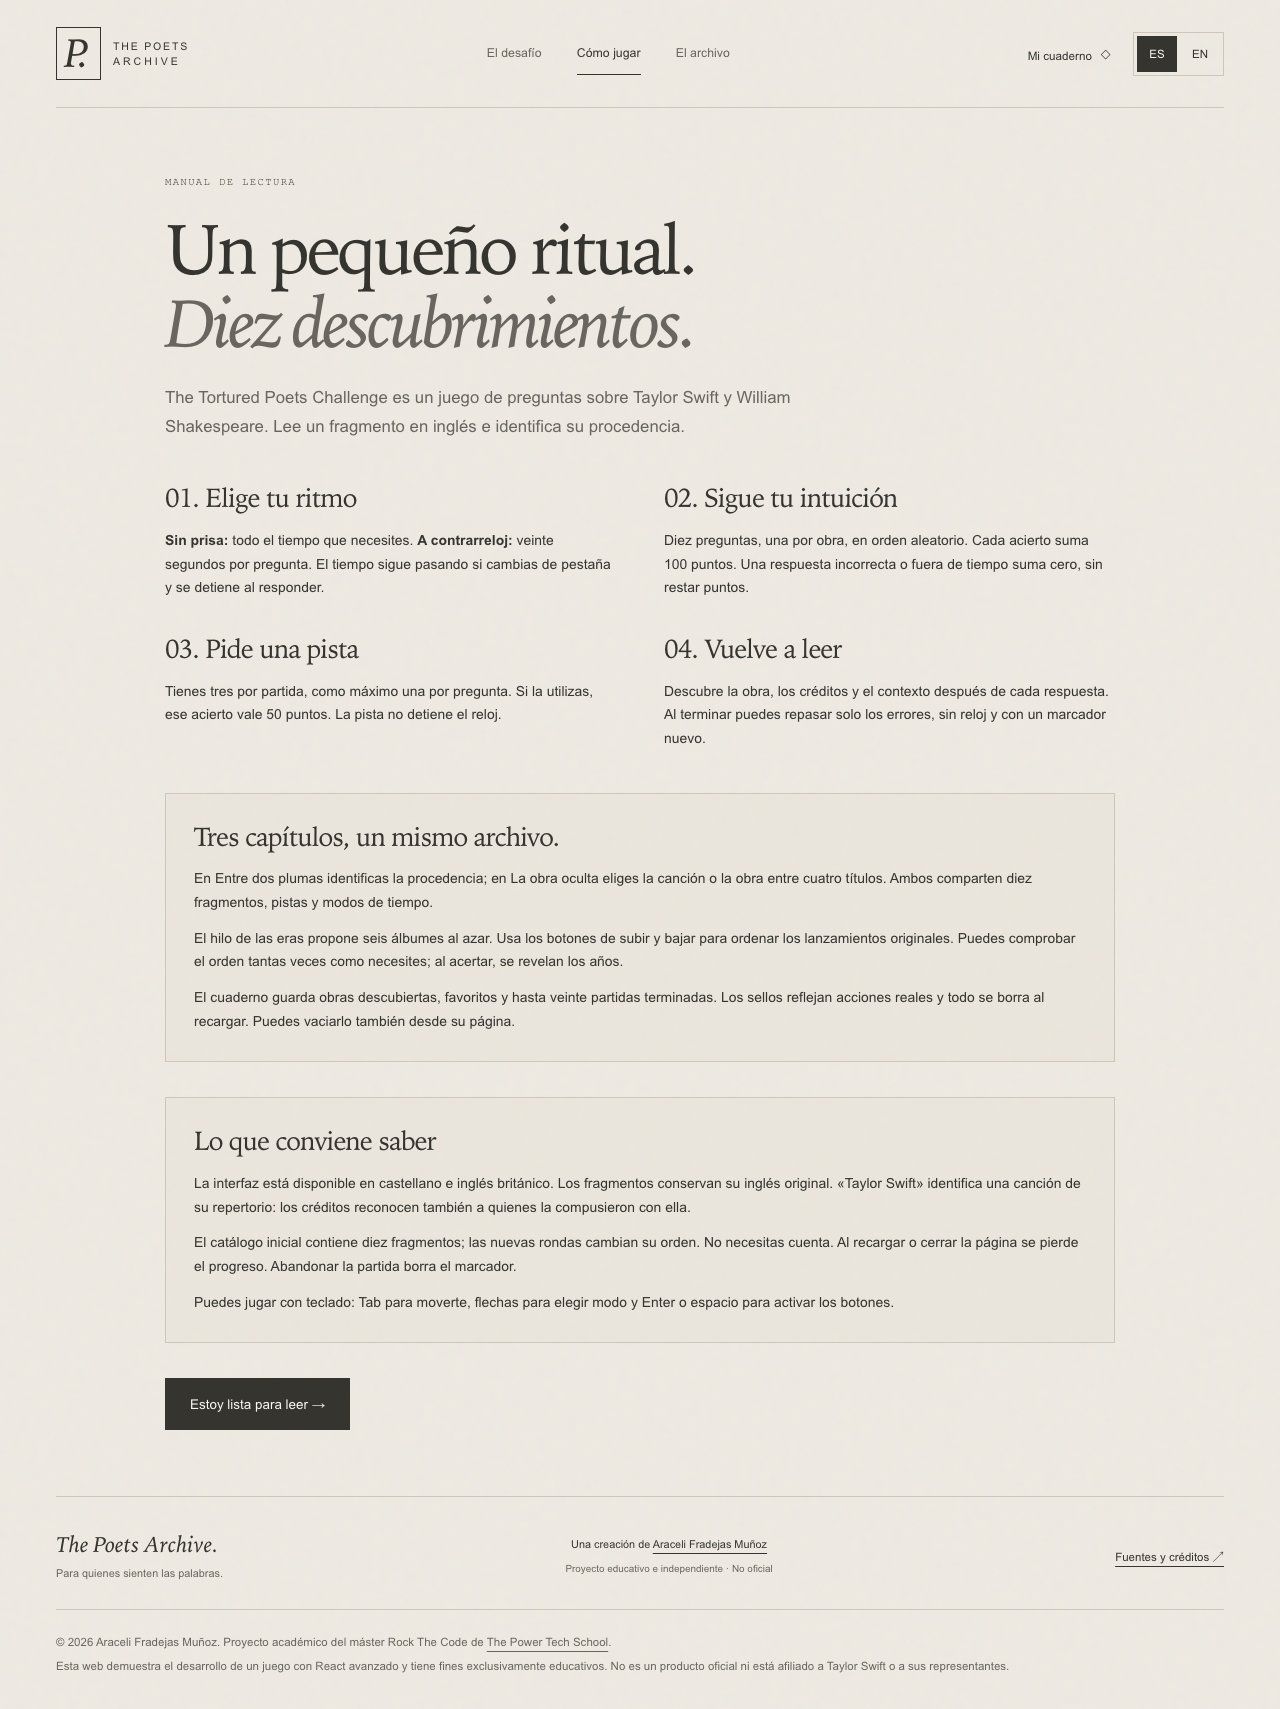
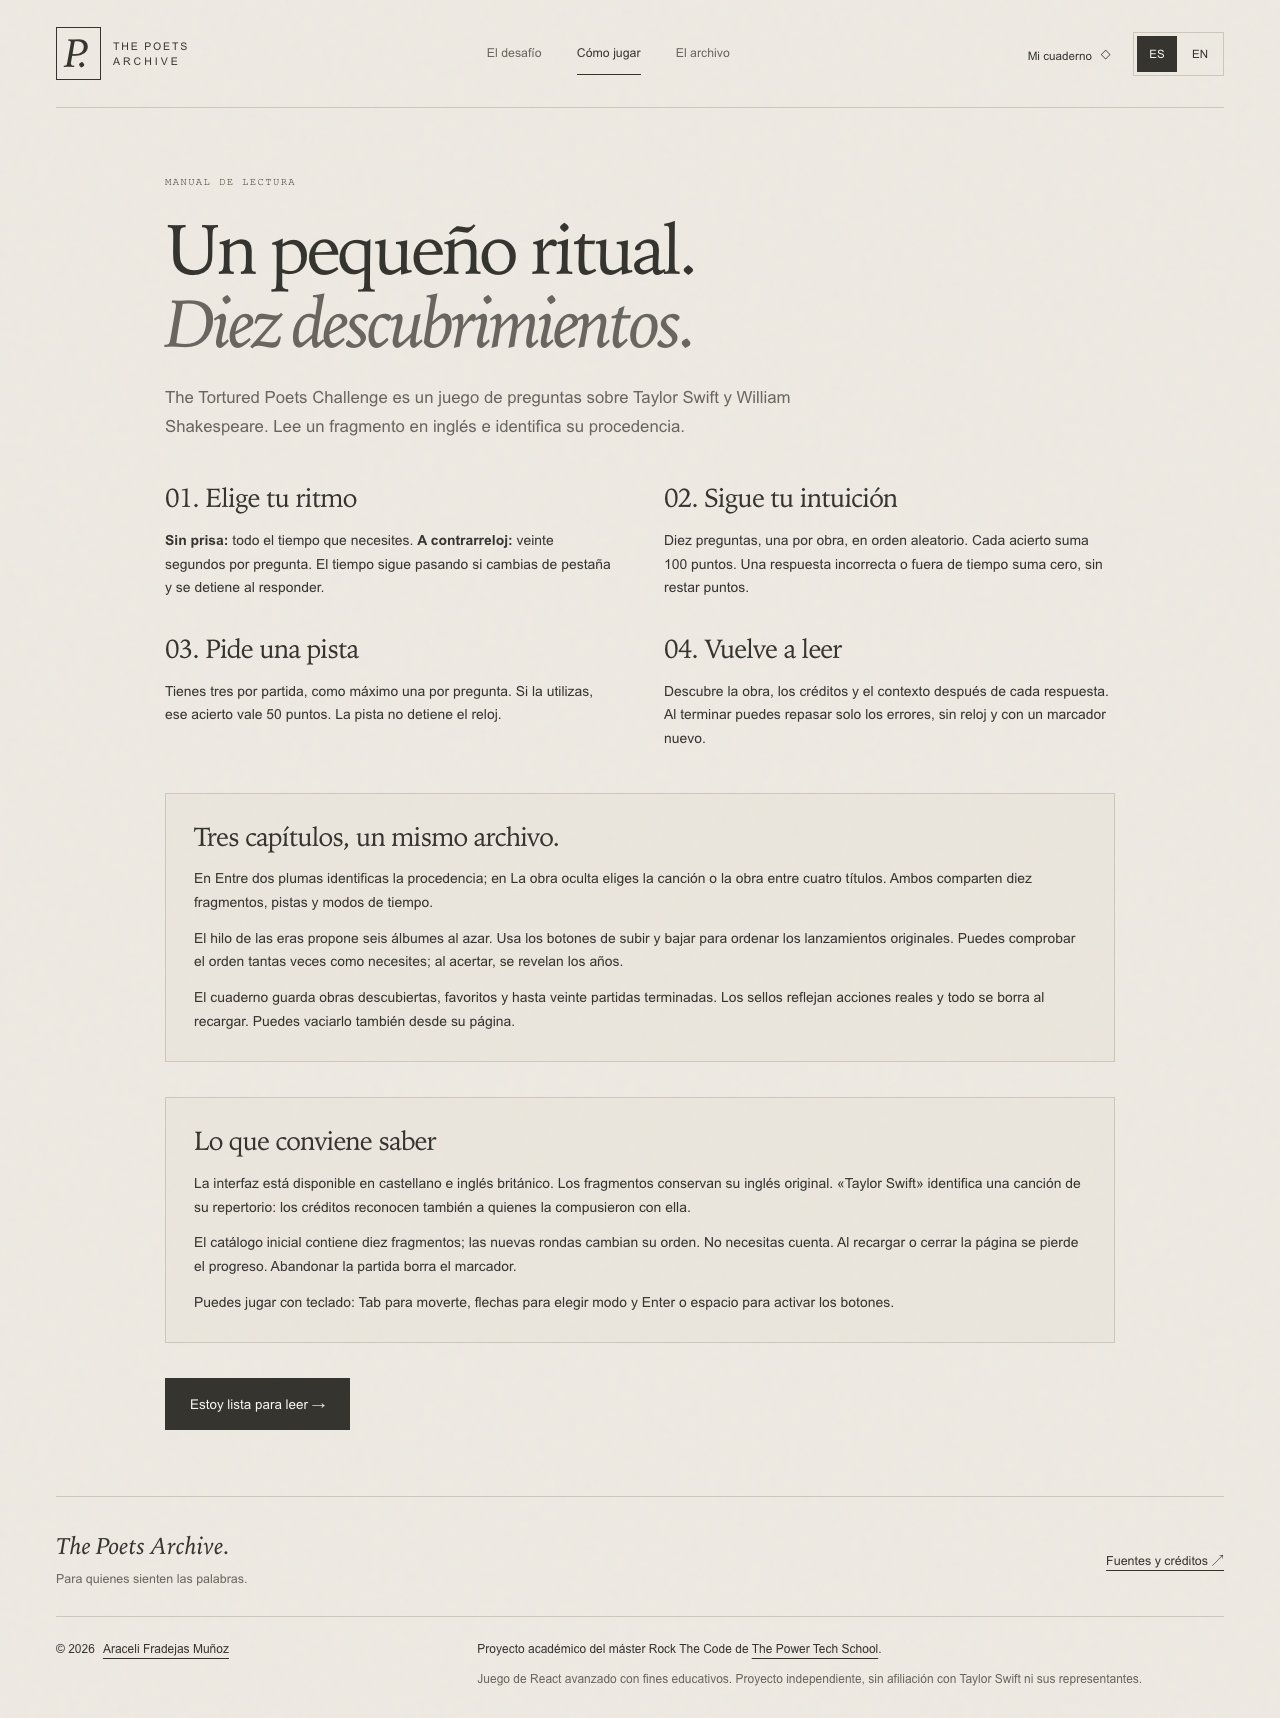
Simplifica los textos y mejora la distribución del pie de página

diff --git a/src/components/Footer.jsx b/src/components/Footer.jsx
@@ -1,12 +1,37 @@
 import { LocalLink as Link } from './LocalLink';
 import { useLanguage } from '../context/LanguageContext';
+import '../styles/footer.css';
+
 export default function Footer() {
   const { t } = useLanguage();
-  return <footer className="site-footer">
-    <div className="footer-main"><div><Link className="footer-title" to="/">The Poets Archive.</Link><p>{t('Para quienes sienten las palabras.')}</p></div>
-      <div className="footer-credit"><span>{t('Una creación de')} <a href="https://github.com/AraceliFradejas" target="_blank" rel="noreferrer">Araceli Fradejas Muñoz</a></span><small>{t('Proyecto educativo e independiente · No oficial')}</small></div>
-      <Link to="/archivo">{t('Fuentes y créditos ↗')}</Link></div>
-    <div className="footer-academic"><p>© 2026 Araceli Fradejas Muñoz. {t('Proyecto académico del máster Rock The Code de')} <a href="https://thepower.education/thepowermba/tech" target="_blank" rel="noopener noreferrer">The Power Tech School</a>.</p>
-      <p>{t('Esta web demuestra el desarrollo de un juego con React avanzado y tiene fines exclusivamente educativos. No es un producto oficial ni está afiliado a Taylor Swift o a sus representantes.')}</p></div>
-  </footer>;
+  return (
+    <footer className="site-footer">
+      <div className="footer-main">
+        <div>
+          <Link className="footer-title" to="/">The Poets Archive.</Link>
+          <p className="footer-tagline">{t('Para quienes sienten las palabras.')}</p>
+        </div>
+        <Link className="footer-sources" to="/archivo">{t('Fuentes y créditos ↗')}</Link>
+      </div>
+      <div className="footer-details">
+        <p className="footer-credit">
+          <span>© 2026</span>{' '}
+          <a href="https://github.com/AraceliFradejas" target="_blank" rel="noopener noreferrer">
+            Araceli Fradejas Muñoz
+          </a>
+        </p>
+        <div className="footer-academic">
+          <p>
+            {t('Proyecto académico del máster Rock The Code de')}{' '}
+            <a href="https://thepower.education/thepowermba/tech" target="_blank" rel="noopener noreferrer">
+              The Power Tech School
+            </a>.
+          </p>
+          <p className="footer-disclaimer">
+            {t('Juego de React avanzado con fines educativos. Proyecto independiente, sin afiliación con Taylor Swift ni sus representantes.')}
+          </p>
+        </div>
+      </div>
+    </footer>
+  );
 }

diff --git a/src/styles/layout.css b/src/styles/layout.css
@@ -7,12 +7,6 @@
 .site-header nav a { text-decoration: none; color: var(--muted); padding: .9rem 0; font-size: .77rem; border-bottom: 1px solid transparent; }
 .site-header nav a.active { color: var(--ink); border-color: var(--ink); }
 main { min-height: calc(100vh - 290px); }
-.site-footer { display: block; min-height: 150px; padding-block: 2rem; border-top: 1px solid var(--line); }
-.footer-title { font-family: var(--serif); font-style: italic; font-size: 1.4rem; text-decoration: none; }
-.site-footer p, .site-footer > a, .footer-credit { font-size: .68rem; line-height: 1.7; }
-.site-footer p { margin-top: 5px; color: var(--muted); }
-.footer-credit { text-align: center; display: grid; gap: .5rem; }
-.footer-credit small { font-size: .62rem; color: var(--muted); }
 .empty-state { text-align: center; padding: 110px 20px; }
 .empty-state h1 { font-size: clamp(2.4rem, 4vw, 4rem); margin: 1.5rem auto; max-width: 780px; }
 .empty-state p { max-width: 560px; margin: 0 auto 2rem; }
@@ -24,18 +18,12 @@ main { min-height: calc(100vh - 290px); }
   .brand { font-size: .56rem; }
   .site-header nav { width: 100%; justify-content: space-around; gap: 1rem; }
   .site-header nav a { font-size: .73rem; padding: .6rem 0; }
-  .footer-credit { text-align: left; }
 }
 .language-switcher { display: flex; gap: 3px; border: 1px solid var(--line); padding: 3px; }
 .language-switcher a { display: grid; place-items: center; min-width: 40px; min-height: 36px; font-size: .72rem; text-decoration: none; }
 .language-switcher a[aria-current] { background: var(--ink); color: var(--paper); }
-.footer-main { display: flex; align-items: center; justify-content: space-between; gap: 2rem; }
-.footer-main > a { font-size: .72rem; }
-.footer-academic { border-top: 1px solid var(--line); margin-top: 26px; padding-top: 18px; }
-.footer-academic p { max-width: 960px; font-size: .72rem; color: var(--muted); }
 @media (max-width: 600px) {
   .site-header { justify-content: space-between; }
   .site-header nav { order: 3; }
   .language-switcher a { min-width: 36px; min-height: 34px; }
-  .footer-main { flex-direction: column; align-items: flex-start; gap: 1.2rem; }
 }

diff --git a/src/styles/footer.css b/src/styles/footer.css
@@ -1,0 +1,18 @@
+.site-footer { padding-block: 32px 28px; border-top: 1px solid var(--line); }
+.footer-main { display: flex; align-items: center; justify-content: space-between; gap: 24px; }
+.footer-title { font: italic 1.5rem var(--serif); text-decoration: none; }
+.footer-tagline { margin-top: 8px; color: var(--muted); font-size: .78rem; line-height: 1.6; }
+.footer-sources { padding-block: 12px; font-size: .78rem; }
+.footer-details { display: grid; grid-template-columns: 1fr 2fr; gap: 24px 48px; margin-top: 26px; padding-top: 22px; border-top: 1px solid var(--line); }
+.footer-details p { font-size: .75rem; line-height: 1.8; }
+.footer-credit { display: flex; flex-wrap: wrap; align-content: flex-start; gap: 0 8px; }
+.footer-academic { max-width: 760px; }
+.footer-disclaimer { margin-top: 8px; color: var(--muted); }
+@media (max-width: 700px) {
+  .footer-details { grid-template-columns: 1fr; gap: 18px; }
+}
+@media (max-width: 480px) {
+  .site-footer { padding-block: 28px; }
+  .footer-main { flex-direction: column; align-items: flex-start; gap: 12px; }
+  .footer-details { margin-top: 18px; padding-top: 18px; }
+}
